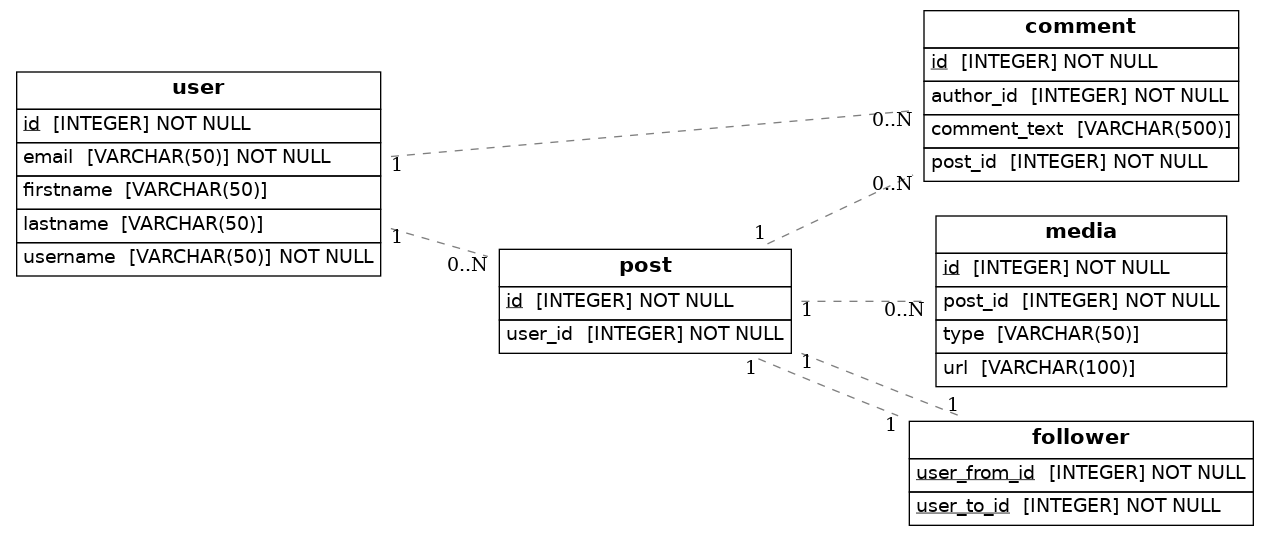
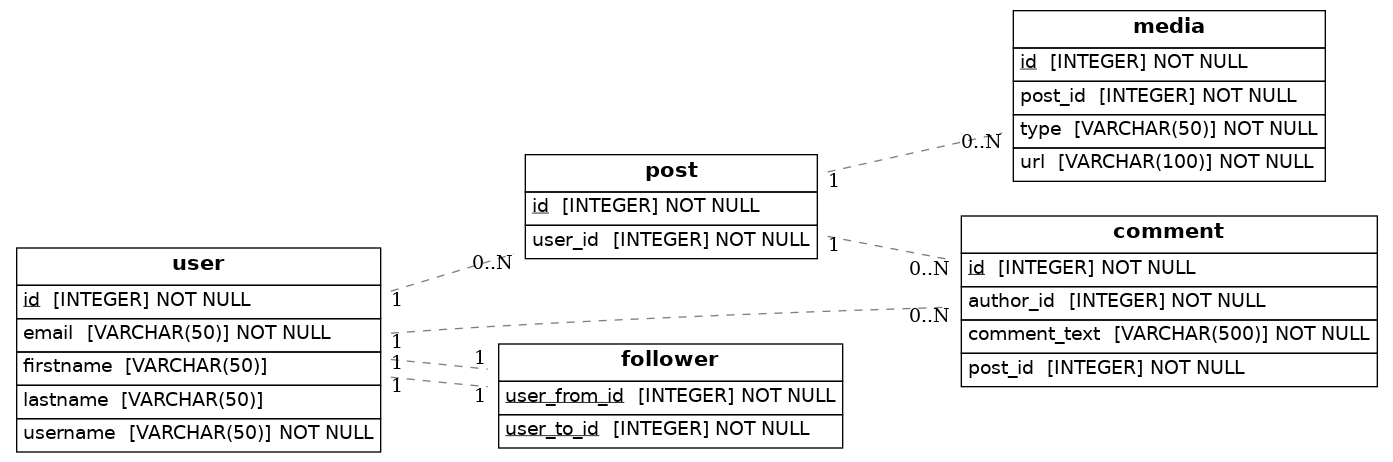
ejercicio resuelto

diff --git a/src/models.py b/src/models.py
@@ -13,34 +13,34 @@ db = SQLAlchemy(app)
 class User(db.Model):
     __tablename__ = 'user'
     id = db.Column(db.Integer, primary_key=True,unique=True,index=True,nullable=False)
-    username = db.Column(db.String(50), nullable=False)
+    username = db.Column(db.String(50), nullable=False,unique=True)
     firstname = db.Column(db.String(50))
     lastname = db.Column(db.String(50))
-    email = db.Column(db.String(50), nullable=False)
+    email = db.Column(db.String(50), nullable=False,unique=True)
 
 class Post(db.Model):
     __tablename__ = 'post'
-    id = db.Column(db.Integer, unique=True, primary_key=True)
+    id = db.Column(db.Integer,unique=True, primary_key=True,index=True)
     user_id = db.Column(db.Integer, ForeignKey('user.id'),nullable=False)
 
 class Comment(db.Model):
     __tablename__ = 'comment'
-    id = db.Column(db.Integer,primary_key=True)
-    comment_text = db.Column(db.String(500), nullable=True)
+    id = db.Column(db.Integer,primary_key=True,unique=True)
+    comment_text = db.Column(db.String(500),nullable=False)
     author_id = db.Column(db.Integer,ForeignKey('user.id'),nullable=False)
     post_id = db.Column(db.Integer,ForeignKey('post.id'),nullable=False)
 
 class Media(db.Model):
     __tablename__ = 'media'
-    id = db.Column(db.Integer,primary_key=True,nullable=False)
-    type = db.Column(db.String(50),nullable=True)
-    url = db.Column(db.String(100),nullable=True)
+    id = db.Column(db.Integer,primary_key=True,unique=True,nullable=False)
+    type = db.Column(db.String(50),nullable=False)
+    url = db.Column(db.String(100),nullable=False)
     post_id = db.Column(db.Integer,ForeignKey('post.id'),nullable=False)
 
 class Follower(db.Model):
     __tablename__ = 'follower'
-    user_from_id = db.Column(db.Integer,ForeignKey('post.id'),primary_key=True)
-    user_to_id = db.Column(db.Integer,ForeignKey('post.id'),primary_key=True)
+    user_from_id = db.Column(db.Integer,ForeignKey('user.id'),primary_key=True)
+    user_to_id = db.Column(db.Integer,ForeignKey('user.id'),primary_key=True)
 
 
     def to_dict(self):
